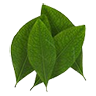
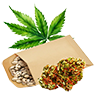
veyl_production: growable mushrooms, ecstasy/LSD/Veyl-X, weedprops models
Field: Forest Cap and Mooncap grown from spores, dried at the coke table, sifting wild mushrooms now gives spores. Supplier: ecstasy, LSD tabs and Veyl-X recipes with skill checks and buyer prices. Botanical varieties use the veyl_weedprops stage models. veyl_weedprops is back in the start order.

diff --git a/docs/PRODUCTION.md b/docs/PRODUCTION.md
@@ -1,6 +1,6 @@
 # Production (`veyl_production`)
 
-The drug system for VeylCore (it replaces `veyl_drugs`): buy supplies, gather, plant and tend, harvest, process on workstations, and run player-owned laboratories. It is game logic with item names, timers and quality, and nothing models a real process. **Botanical** is weed (Violet Haze, Silverleaf, Nightbloom: bud, trimmed bud, bagged weed on a Weed Table). **Field operations** is coca and wild mushrooms (Red Ridge and Andes Mist, coke on a Coke Table, mushrooms found in field zones). **Supplier operations** is the chemical supply runs and the crystal (meth) station with the fumes hazard. The ids (`prod_*`) are generic; names, descriptions and images are just labels you can change in `config/`, `shared/items.lua` and `veyl_inventory/data/items.lua`.
+The drug system for VeylCore (it replaces `veyl_drugs`): buy supplies, gather, plant and tend, harvest, process on workstations, and run player-owned laboratories. It is game logic with item names, timers and quality, and nothing models a real process. **Botanical** is weed (Violet Haze, Silverleaf, Nightbloom: bud, trimmed bud, bagged weed on a Weed Table). **Field operations** is coca and mushrooms: Red Ridge and Andes Mist coca become coke on a Coke Table, and Forest Cap and Mooncap mushrooms are grown from spores (found in field zones, bought at the outfitter or sifted from wild mushrooms) and dried. **Supplier operations** is the chemical supply runs and the Meth Station with the fumes hazard: crystal (level 1), ecstasy (2), LSD tabs (3) and Veyl-X (5), each behind a skill check. Cannabis uses the custom `veyl_weedprops` models, so start it before `veyl_production`. The ids (`prod_*`) are generic; names, descriptions and images are just labels you can change in `config/`, `shared/items.lua` and `veyl_inventory/data/items.lua`.
 
 ## What is built and what is not
 
@@ -107,7 +107,7 @@ Natives used: placement ray tests, `CreateObject`, `RequestIpl`, routing buckets
 
 The server logic ran against a real MariaDB with VeylCore stubbed (120 checks): migrations, shop (price, stock, restock, level locks, forged names and quantities, cannot afford), gathering (distance, token, too-early finish, cooldown, one reward), plants (placement rules, caps, care, growth to ready, neglect, harvest quality metadata, failed-grant recovery, no double harvest), benches (placement, queue order, quality-first input use, cancel refunds, claim once, pack-up rules, restart), buyer (price by quality), laboratories (purchase, double-buy, entry, codes with lockout, staff roles and live access removal, upgrades with cost and cap, sell, buyback, transfer), police (disabled by default, raid timing, window, seizure), progression, and restarts. The tablet, shop, buyer and bench pages were clicked through in the preview (24 flows).
 
-Field and supplier branches add checks for: field points (range, per-point and per-player cooldown, token and minimum time), supplier runs (level, fee, hours, daily limit, pickup and drop distance, speed, expiry, one active run, cancel wait, idempotent delivery), skill-check tokens (single use, expiry, score clamp) and the hazard (exposure, protection, decay). The suite is 184 checks in all.
+Field and supplier branches add checks for: field points (range, per-point and per-player cooldown, token and minimum time), supplier runs (level, fee, hours, daily limit, pickup and drop distance, speed, expiry, one active run, cancel wait, idempotent delivery), skill-check tokens (single use, expiry, score clamp) and the hazard (exposure, protection, decay). The suite is 188 checks in all.
 
 Not tested: in-game spawning, the placement preview, targeting, the interior teleport and IPL, and CEF rendering. Try these on a development server first.
 
